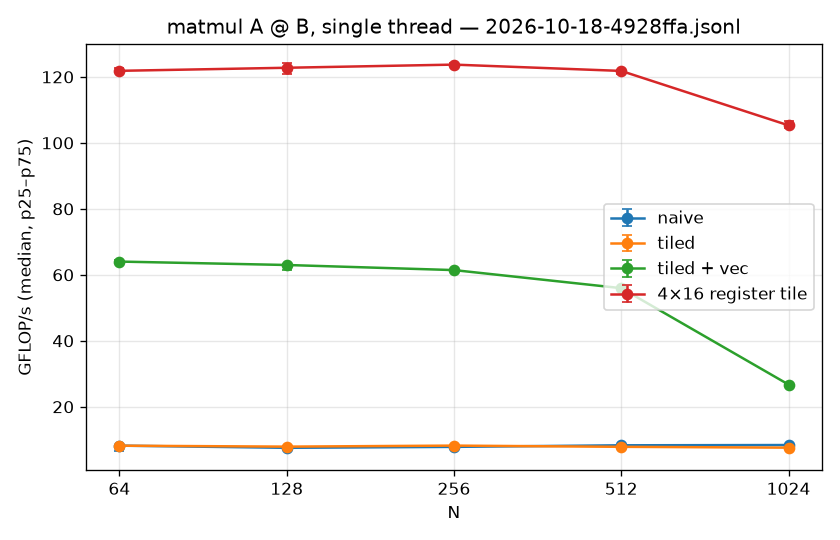
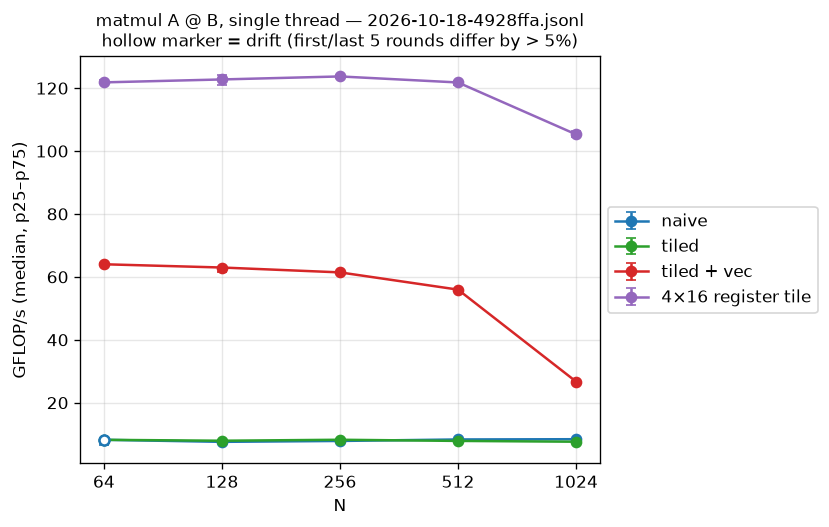
bench/plot.py: skip unverified/non-GFLOP/s rows, hollow markers for drift, legend outside

diff --git a/bench/plot.py b/bench/plot.py
@@ -27,7 +27,10 @@ def load(path):
         r = json.loads(line)
         if r.get("kernel") != "matmul" or not 64 <= r["n"] <= 1024:
             continue
-        series.setdefault(label(r["schedule"]), []).append((r["n"], r["median"], r["p25"], r["p75"]))
+        if r.get("unit") != "GFLOP/s" or r.get("verified") is not True:
+            continue
+        series.setdefault(label(r["schedule"]), []).append(
+            (r["n"], r["median"], r["p25"], r["p75"], r.get("drift") is True))
     return {k: sorted(v) for k, v in series.items()}
 
 
@@ -47,19 +50,24 @@ def main():
     for name in ORDER:
         if name not in series:
             continue
-        n, med, lo, hi = zip(*series[name])
-        ax.errorbar(n, med, yerr=[[m - l for m, l in zip(med, lo)], [h - m for m, h in zip(med, hi)]],
-                    marker="o", capsize=3, label=name)
+        n, med, lo, hi, drift = zip(*series[name])
+        line = ax.errorbar(n, med, yerr=[[m - l for m, l in zip(med, lo)], [h - m for m, h in zip(med, hi)]],
+                           marker="o", capsize=3, label=name)
+        dn = [x for x, d in zip(n, drift) if d]
+        dm = [y for y, d in zip(med, drift) if d]
+        if dn:
+            ax.plot(dn, dm, "o", mfc="white", mec=line[0].get_color(), mew=1.5, zorder=3)
     ax.set_xscale("log", base=2)
     ax.set_xticks([64, 128, 256, 512, 1024], ["64", "128", "256", "512", "1024"])
     ax.set_xlabel("N")
     ax.set_ylabel("GFLOP/s (median, p25–p75)")
-    ax.set_title(f"matmul A @ B, single thread — {pathlib.Path(a.results).name}")
+    ax.set_title(f"matmul A @ B, single thread — {pathlib.Path(a.results).name}\n"
+                 "hollow marker = drift (first/last 5 rounds differ by > 5%)", fontsize=10)
     ax.grid(alpha=0.3)
-    ax.legend()
+    ax.legend(loc="center left", bbox_to_anchor=(1, 0.5))
     fig.tight_layout()
     pathlib.Path(a.out).parent.mkdir(parents=True, exist_ok=True)
-    fig.savefig(a.out, dpi=120)
+    fig.savefig(a.out, dpi=120, bbox_inches="tight")
     print(a.out)
 
 
